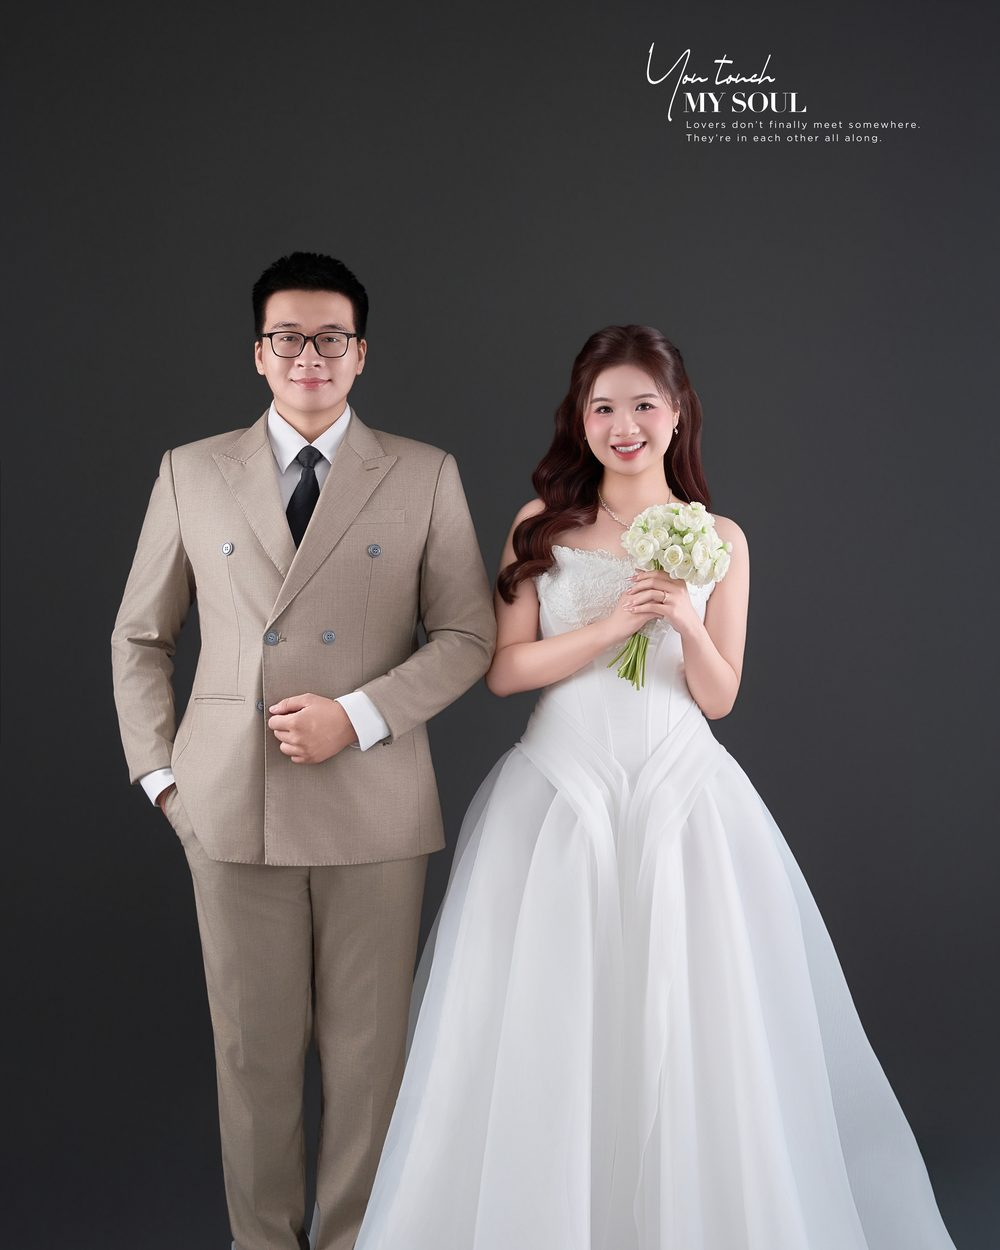
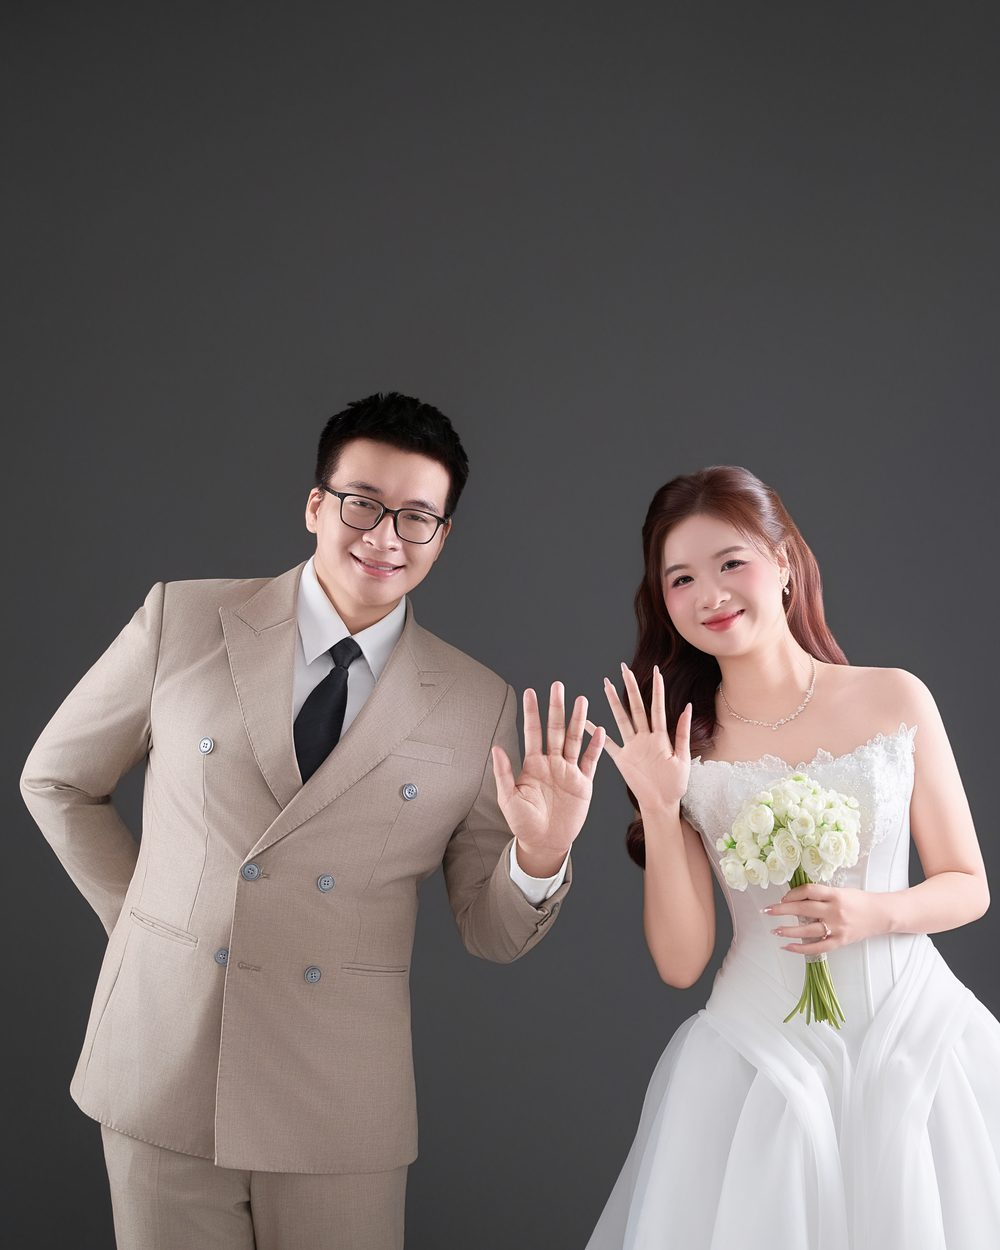
Name the parents, lead the album with the waving shot and drop Hồng Nhung
The family section now shows Ông Lê Văn Hưng for the groom's side and
Ông Vũ Văn Nhân and Bà Nguyễn Thị Đương for the bride's, and long names
wrap instead of being clipped on narrow phones. The album opens with the
waving photo. The Hồng Nhung invitation is removed and the switcher is
renumbered 01 to 04.

diff --git a/wedding-extras.js b/wedding-extras.js
@@ -20,16 +20,13 @@ extras.innerHTML = `
     <div class="x-family-grid">
       <article>
         <p class="x-label">Nhà trai</p>
-        <p class="x-parent">Ông ··················</p>
-        <p class="x-parent">Bà ··················</p>
-        <small>Tên bố mẹ đang cập nhật</small>
+        <p class="x-parent">Ông Lê Văn Hưng</p>
       </article>
       <span class="x-family-amp" aria-hidden="true">&amp;</span>
       <article>
         <p class="x-label">Nhà gái</p>
-        <p class="x-parent">Ông ··················</p>
-        <p class="x-parent">Bà ··················</p>
-        <small>Tên bố mẹ đang cập nhật</small>
+        <p class="x-parent">Ông Vũ Văn Nhân</p>
+        <p class="x-parent">Bà Nguyễn Thị Đương</p>
       </article>
     </div>
   </section>
@@ -61,8 +58,8 @@ extras.innerHTML = `
       <h2>Những khoảnh khắc</h2>
     </header>
     <div class="x-album-grid">
-      <figure class="ph x-album-a" style="--ratio: 4 / 5"><img src="images/album-a.jpg" alt="Huy và Phương chụp chân dung" loading="lazy" /></figure>
-      <figure class="ph x-album-b" style="--ratio: 1"><img src="images/album-b.jpg" alt="Huy và Phương vẫy tay" loading="lazy" /></figure>
+      <figure class="ph x-album-a" style="--ratio: 4 / 5"><img src="images/album-a.jpg" alt="Huy và Phương vẫy tay" loading="lazy" /></figure>
+      <figure class="ph x-album-b" style="--ratio: 1"><img src="images/album-b.jpg" alt="Huy và Phương chụp chân dung" loading="lazy" /></figure>
       <figure class="ph x-album-c" style="--ratio: 1"><img src="images/album-c.jpg" alt="Huy và Phương nắm tay" loading="lazy" /></figure>
       <figure class="ph x-album-d" style="--ratio: 3 / 2"><img src="images/album-d.jpg" alt="Huy và Phương đứng cạnh nhau" loading="lazy" /></figure>
     </div>

diff --git a/photo-editorial.html b/photo-editorial.html
@@ -20,9 +20,8 @@
     <nav class="design-switcher" aria-label="Chọn mẫu thiệp">
       <a href="index.html"><span>01</span>Son Mài</a>
       <a href="editorial.html"><span>02</span>Thư Tay</a>
-      <a href="keepsake.html"><span>03</span>Hồng Nhung</a>
-      <a class="is-active" href="photo-editorial.html" aria-current="page"><span>04</span>Tơ Duyên</a>
-      <a href="wine-rustic.html"><span>05</span>Chuyện Hai Ta</a>
+      <a class="is-active" href="photo-editorial.html" aria-current="page"><span>03</span>Tơ Duyên</a>
+      <a href="wine-rustic.html"><span>04</span>Chuyện Hai Ta</a>
     </nav>
     <button class="demo-music" data-music-toggle type="button" aria-pressed="false" aria-label="Bật nhạc nền tạm"><span class="music-bars" aria-hidden="true"><i></i><i></i><i></i></span><span data-music-label>Bật nhạc</span></button>
 

diff --git a/wine-rustic.html b/wine-rustic.html
@@ -35,9 +35,8 @@
     <nav class="design-switcher" aria-label="Chọn mẫu thiệp">
       <a href="index.html"><span>01</span>Son Mài</a>
       <a href="editorial.html"><span>02</span>Thư Tay</a>
-      <a href="keepsake.html"><span>03</span>Hồng Nhung</a>
-      <a href="photo-editorial.html"><span>04</span>Tơ Duyên</a>
-      <a class="is-active" href="wine-rustic.html" aria-current="page"><span>05</span>Chuyện Hai Ta</a>
+      <a href="photo-editorial.html"><span>03</span>Tơ Duyên</a>
+      <a class="is-active" href="wine-rustic.html" aria-current="page"><span>04</span>Chuyện Hai Ta</a>
     </nav>
     <button class="demo-music" data-music-toggle type="button" aria-pressed="false" aria-label="Bật nhạc nền tạm"><span class="music-bars" aria-hidden="true"><i></i><i></i><i></i></span><span data-music-label>Bật nhạc</span></button>
 

diff --git a/editorial.html b/editorial.html
@@ -19,9 +19,8 @@
     <nav class="design-switcher" aria-label="Chọn mẫu thiệp">
       <a href="index.html"><span>01</span>Son Mài</a>
       <a class="is-active" href="editorial.html" aria-current="page"><span>02</span>Thư Tay</a>
-      <a href="keepsake.html"><span>03</span>Hồng Nhung</a>
-      <a href="photo-editorial.html"><span>04</span>Tơ Duyên</a>
-      <a href="wine-rustic.html"><span>05</span>Chuyện Hai Ta</a>
+      <a href="photo-editorial.html"><span>03</span>Tơ Duyên</a>
+      <a href="wine-rustic.html"><span>04</span>Chuyện Hai Ta</a>
     </nav>
     <button class="demo-music" data-music-toggle type="button" aria-pressed="false" aria-label="Bật nhạc nền tạm"><span class="music-bars" aria-hidden="true"><i></i><i></i><i></i></span><span data-music-label>Bật nhạc</span></button>
 

diff --git a/index.html b/index.html
@@ -19,9 +19,8 @@
     <nav class="design-switcher" aria-label="Chọn mẫu thiệp">
       <a class="is-active" href="index.html" aria-current="page"><span>01</span>Son Mài</a>
       <a href="editorial.html"><span>02</span>Thư Tay</a>
-      <a href="keepsake.html"><span>03</span>Hồng Nhung</a>
-      <a href="photo-editorial.html"><span>04</span>Tơ Duyên</a>
-      <a href="wine-rustic.html"><span>05</span>Chuyện Hai Ta</a>
+      <a href="photo-editorial.html"><span>03</span>Tơ Duyên</a>
+      <a href="wine-rustic.html"><span>04</span>Chuyện Hai Ta</a>
     </nav>
     <button class="demo-music" data-music-toggle type="button" aria-pressed="false" aria-label="Bật nhạc nền tạm"><span class="music-bars" aria-hidden="true"><i></i><i></i><i></i></span><span data-music-label>Bật nhạc</span></button>
 

diff --git a/wedding-extras.css b/wedding-extras.css
@@ -40,8 +40,8 @@
 
 /* Gia đình */
 .x-family-grid { display: grid; grid-template-columns: 1fr auto 1fr; gap: 12px; align-items: center; }
-.x-family-grid article { display: grid; gap: 4px; }
-.x-parent { margin: 0; font: 400 19px/1.4 var(--f-display); white-space: nowrap; overflow: hidden; text-overflow: clip; }
+.x-family-grid article { display: grid; gap: 8px; }
+.x-parent { margin: 0; font: 400 19px/1.3 var(--f-display); text-wrap: balance; }
 .x-family-grid small { margin-top: 8px; color: var(--muted); font-size: 11px; }
 .x-family-amp { color: var(--gold); font: italic 400 34px/1 var(--f-display); }
 

diff --git a/README.md b/README.md
@@ -1,20 +1,19 @@
 # Demo thiệp cưới Huy & Phương
 
-Năm mẫu độc lập, cùng tông đỏ, thiết kế ưu tiên điện thoại (trên máy tính thiệp
+Bốn mẫu độc lập, cùng tông đỏ, thiết kế ưu tiên điện thoại (trên máy tính thiệp
 hiển thị thành một cột giữa nền trang trí):
 
 - `index.html` · **01 Son Mài**: đỏ son, vàng kim, chữ Song Hỷ, mở bằng hai cánh cửa son
 - `editorial.html` · **02 Thư Tay**: giấy kem, mực đỏ son, chữ in lớn, mục đánh số như một bức thư
-- `keepsake.html` · **03 Hồng Nhung**: hồng phấn, đỏ nhung, cúc họa mi, lịch tháng 11
-- `photo-editorial.html` · **04 Tơ Duyên**: sợi tơ hồng vẽ dần theo khi cuộn, thẻ cào để xem ngày cưới
-- `wine-rustic.html` · **05 Chuyện Hai Ta**: sách tranh cắt giấy, năm chương chuyện tình chuyển cảnh theo khi cuộn
+- `photo-editorial.html` · **03 Tơ Duyên**: sợi tơ hồng vẽ dần theo khi cuộn, thẻ cào để xem ngày cưới
+- `wine-rustic.html` · **04 Chuyện Hai Ta**: sách tranh cắt giấy, năm chương chuyện tình chuyển cảnh theo khi cuộn
 
 Cấu trúc:
 
 - `demo-common.css` / `demo-common.js`: khung trang, thanh chọn mẫu, nhạc, màn mở thiệp
 - `wedding-extras.css` / `wedding-extras.js`: các phần chung (gia đình, chuyện tình,
   album, lịch trình, đếm ngược, bản đồ, xác nhận tham dự, lời chúc, mừng cưới)
-- `themes/*.css`: màu, font và bố cục riêng của từng mẫu; `themes/*.js` cho phần tương tác riêng của mẫu 04 và 05
+- `themes/*.css`: màu, font và bố cục riêng của từng mẫu; `themes/*.js` cho phần tương tác riêng của mẫu 03 và 04
 - `apps-script/Code.gs`: nhận xác nhận tham dự và lời chúc vào Google Sheet
 
 ## Nhận phản hồi vào Google Sheet
